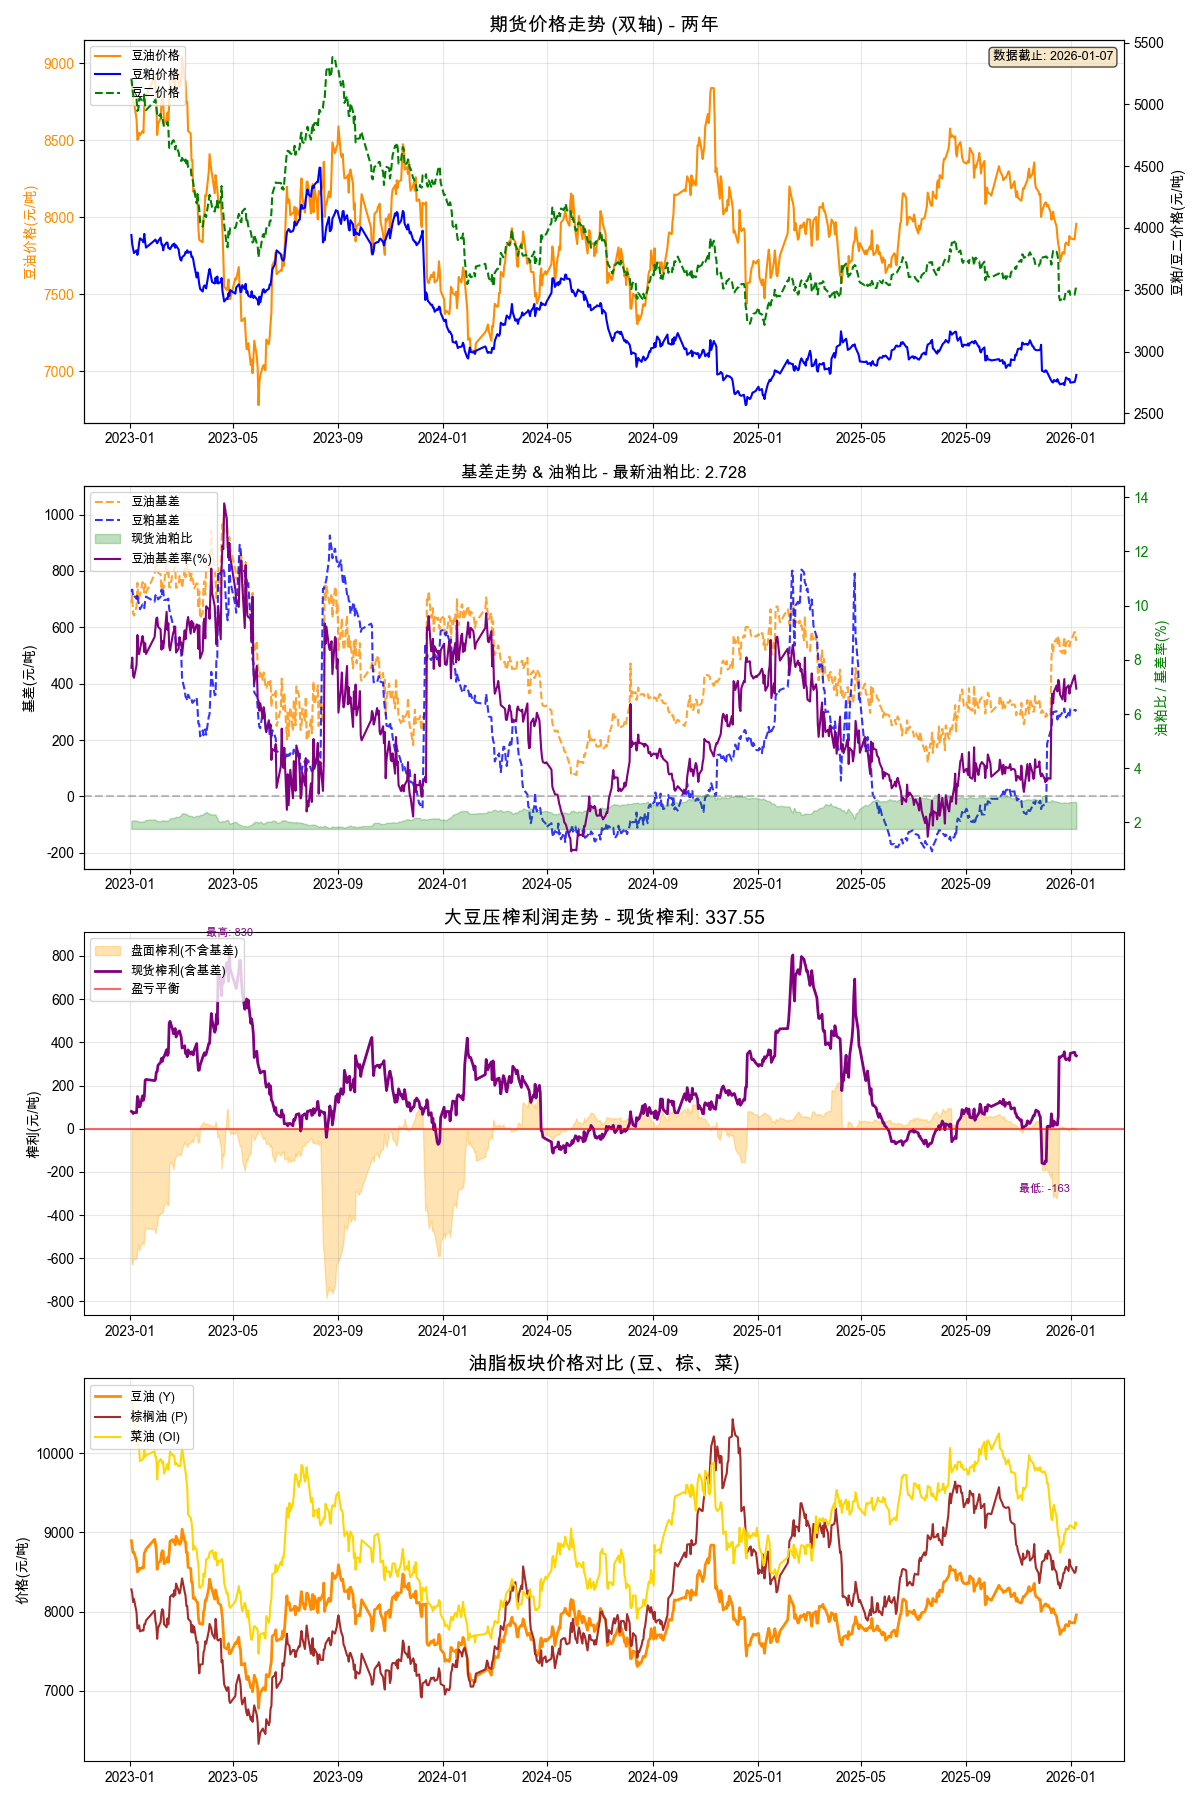
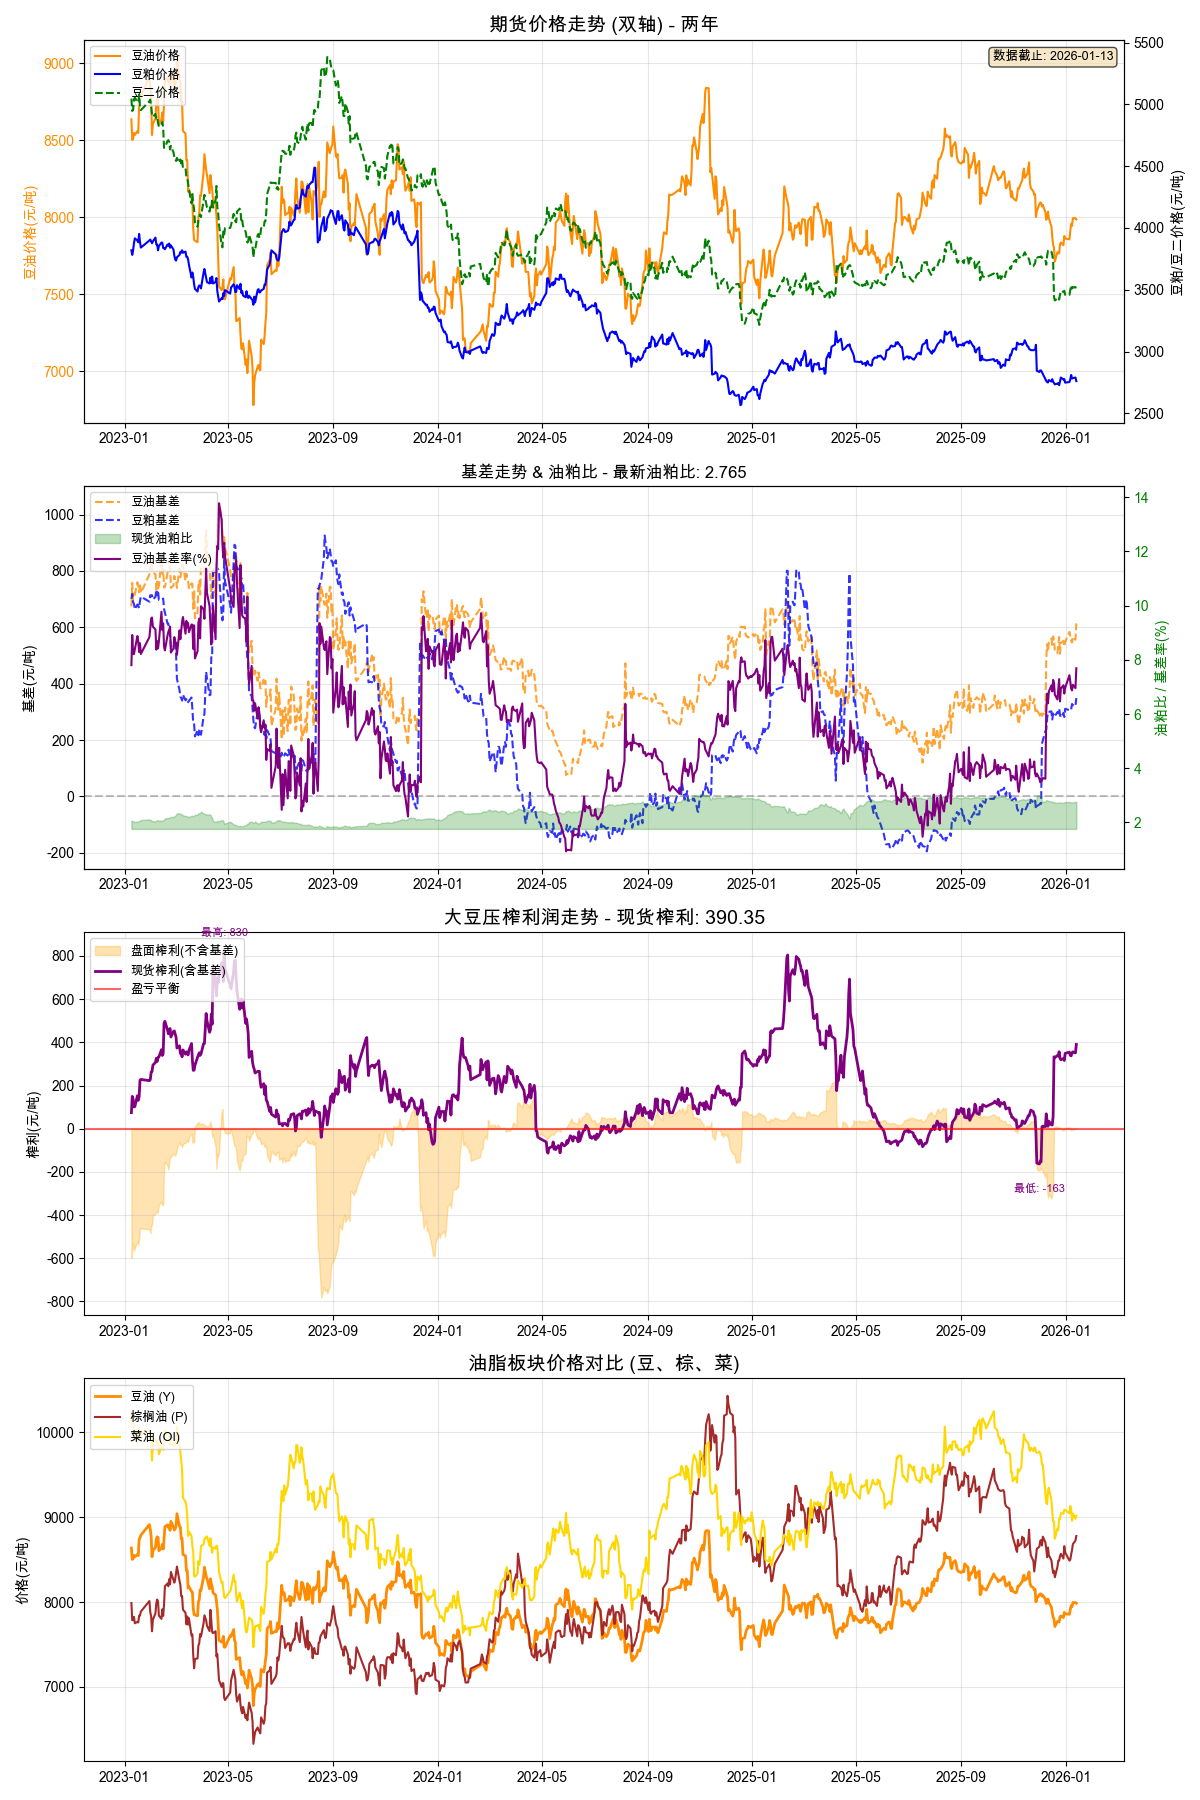
更新: 内容更新 2026-01-13 22:06:48

diff --git a/分析文章脚本/榨利计算深度分析_v3.py b/分析文章脚本/榨利计算深度分析_v3.py
@@ -275,6 +275,7 @@ class 榨利计算器V3:
         plt.savefig(os.path.join(HUGO_IMAGES_DIR, 文件名))
         plt.savefig(os.path.join(self.输出目录, 文件名))
         plt.close()
+        return 文件名
 
     # ================= AI 分析与博客生成逻辑 =================
 

diff --git a/content/posts/榨利深度分析报告.md b/content/posts/榨利深度分析报告.md
@@ -1,67 +1,24 @@
 ---
 title: "🫘大豆榨利深度分析报告"
-date: 2026-01-13T15:44:37+08:00
-lastmod: 2026-01-13T15:44:37+08:00
+date: 2026-01-13T22:05:49+08:00
+lastmod: 2026-01-13T22:05:49+08:00
 description: "自动化生成的压榨利润深度报告，引用原始版本高精绘图和 DeepSeek AI 逻辑。"
 draft: false
 categories: ["期货分析"]
 tags: ["大豆", "豆油", "豆粕", "期货", "可视化"]
-image: /images/charts/None
+image: /images/charts/margin_chart_半年.png
 ---
 
 ## 🛰 数据核心快照
 
-- **最新榨利**: `351.10` 元/吨 (压榨成本：150.0)
-- **基差详情**: 豆油 `556` | 豆粕 `320`
+- **最新榨利**: `390.35` 元/吨 (压榨成本：150.0)
+- **基差详情**: 豆油 `614` | 豆粕 `349`
 
 ---
 
 ## 🤖 AI 首席分析师解读
 
-# 大豆压榨利润深度点评：高利润下的策略与风险
-
-## 一、 利润周期定位：处于历史高位，但非极端
-
-**当前榨利：351.10 元/吨**，显著高于**半年均值79.47元/吨**，并已进入历史最值区间（-163， 693）的上半区。从统计角度看，当前利润水平已超过过去半年约70%的时间点（胜率71.1%），表明市场正处于一个**高利润驱动期**。
-
-**核心判断**：利润虽高，但距离历史峰值（693元/吨）仍有相当距离，尚未进入“极端泡沫”区间。此利润水平主要受**原料成本（大豆）相对疲软**与**产成品（豆油、豆粕）价格相对坚挺**的双重驱动，是阶段性供需错配的结果，而非长期结构性红利。
-
-## 二、 基差结构对油厂策略的影响：锁定利润的黄金窗口
-
-最新基差呈现 **“油强粕稳”** 格局：
-- **豆油基差：+556.0** —— 处于**极高**水平，反映现货市场供应紧张、需求旺盛或对未来看涨情绪强烈。
-- **豆粕基差：+320.0** —— 处于**偏强**水平，显示饲料需求有支撑，但强度弱于豆油。
-
-**对油厂策略的直接影响**：
-1.  **强烈套保动机**：高企的正基差意味着现货销售利润远优于期货盘面。油厂有极强动力在期货盘面**卖出豆油、豆粕期货**，以锁定未来生产的超高现货升水利润。这是将当前高基差“变现”的核心手段。
-2.  **延缓点价，挺价销售**：对于已采购的未点价大豆，油厂可能倾向于**延缓点价**，等待更好的成本机会。同时，在现货销售中采取**高报、限量**的挺价策略，以最大化享受高基差红利。
-3.  **压榨节奏最大化**：高利润驱动下，只要物流和产能允许，油厂会倾向于**维持甚至提升开机率**，将利润转化为实际现金流。
-
-## 三、 豆油下游采购与套保决策建议
-
-**核心矛盾**：面对**高现货价格（期货价格+高基差）** 和**高基差**，下游厂商陷入“采购即面临高成本，不采购则可能面临断供或更高价格”的两难境地。
-
-**具体决策建议**：
-- **现货采购策略**：
-    - **刚性需求**：对于未来1-2个月的刚性生产需求，建议采取 **“小批量、多批次”** 的采购模式。避免在当前现货绝对价格和基差双高的位置建立大量库存。可尝试与供应商协商，争取部分**远期基差合同**，锁定未来的采购升水，但暂不锁定绝对价格。
-    - **非刚性/战略备货**：**强烈建议推迟大规模采购**。当前现货价格已包含极高的情绪溢价，风险大于机会。
-- **期货与套保策略**：
-    - **买入套保（针对未来需求）**：**不建议直接在期货盘面大量买入豆油合约**进行虚拟库存建设。因为期货价格已反映较强预期，且基差有在未来随着供应恢复而大幅收敛（下跌）的风险，可能导致“期货盈利无法覆盖现货基差损失”的局面。
-    - **替代策略**：考虑采用 **“买入看涨期权”** 或 **“牛市价差组合”** 。此举可以在控制最大风险（权利金）的前提下，捕捉未来价格的潜在上涨，同时规避了高基差收敛带来的风险。这是当前环境下更优的风险管理工具。
-    - **对于已采购的高价现货**：如果库存成本过高，可在期货盘面进行**卖出套保**，锁定销售价格，防止未来价格下跌带来的库存贬值风险。
-
-## 四、 短期持仓与企业避险建议
-
-1.  **对于油厂（利润持有方）**：
-    - **首要行动**：**立即、分批在豆油和豆粕期货上进行卖出套保**，将当前的高额盘面利润及高基差预期予以锁定。套保比例可根据销售进度提升至80%以上。
-    - **风险管理**：警惕“利润顶”的出现。密切关注大豆到港成本变化、国家抛储政策动向以及下游对高价的接受度。一旦利润出现拐头向下迹象，应果断将剩余敞口全部套保。
-
-2.  **对于贸易商及下游企业（成本承受方）**：
-    - **降低敞口，谨慎追高**：现货端严格控制库存水平，期货端避免单边多头投机。当前市场更可能呈现“高位震荡”而非“单边上涨”，交易难度大。
-    - **利用基差交易**：积极关注**基差交易机会**。如果判断未来基差必将从高位回落，可考虑在现货端签订固定基差的远期合同，同时在期货市场进行对冲操作，赚取基差收敛的利润。
-    - **关注替代品价差**：密切关注棕榈油、菜油等对豆油的价差关系。如果价差拉大至极端水平，可考虑在配方或采购中增加替代品比例，以降低成本压力。
-
-**总结**：当前大豆压榨利润处于诱人的高位，但其根基是脆弱的高基差。对于不同产业链位置的企业，这是**风险与机遇截然分化**的时刻。油厂应果断“落袋为安”，下游企业则需“忍耐避险”。市场已进入 **“利润兑现期”而非“利润扩张期”** ，策略的核心应从进攻转向防守。
+AI 分析连接超时，请关注盘面基差变化。
 
 ---
 
@@ -69,20 +26,20 @@ image: /images/charts/None
 (各周期图表均包含：价格、基差、榨利、板块对比)
 
 ### 1. 近半年 (180天)
-![半年走势](/images/charts/None)
+![半年走势](/images/charts/margin_chart_半年.png)
 
 ### 2. 近一年 (365天)
-![一年走势](/images/charts/None)
+![一年走势](/images/charts/margin_chart_一年.png)
 
 ### 3. 近两年 (730天)
-![两年走势](/images/charts/None)
+![两年走势](/images/charts/margin_chart_两年.png)
 
 ### 4. 全历史周期
-![全历史走势](/images/charts/None)
+![全历史走势](/images/charts/margin_chart_全历史.png)
 
 ---
 
 ## 🛠 计算说明
 > 榨利 = (豆油现货价格 × 18.5% + 豆粕现货价格 × 78.5%) - 豆二价格 - 150.0
 > 数据源：交易法门(基差) / Akshare(期货)
-> 更新时间：2026-01-13 15:44:37
+> 更新时间：2026-01-13 22:05:49

diff --git a/分析文章脚本/blog/榨利深度分析报告.md b/分析文章脚本/blog/榨利深度分析报告.md
@@ -1,18 +1,18 @@
 ---
 title: "🫘大豆榨利深度分析报告"
-date: 2026-01-07T23:43:28+08:00
-lastmod: 2026-01-07T23:43:28+08:00
+date: 2026-01-13T22:05:49+08:00
+lastmod: 2026-01-13T22:05:49+08:00
 description: "自动化生成的压榨利润深度报告，引用原始版本高精绘图和 DeepSeek AI 逻辑。"
 draft: false
-categories: ["榨利深度分析"]
+categories: ["期货分析"]
 tags: ["大豆", "豆油", "豆粕", "期货", "可视化"]
-image: /images/charts/None
+image: /images/charts/margin_chart_半年.png
 ---
 
 ## 🛰 数据核心快照
 
-- **最新榨利**: `337.55` 元/吨 (压榨成本：150.0)
-- **基差详情**: 豆油 `552` | 豆粕 `309`
+- **最新榨利**: `390.35` 元/吨 (压榨成本：150.0)
+- **基差详情**: 豆油 `614` | 豆粕 `349`
 
 ---
 
@@ -26,20 +26,20 @@ AI 分析连接超时，请关注盘面基差变化。
 (各周期图表均包含：价格、基差、榨利、板块对比)
 
 ### 1. 近半年 (180天)
-![半年走势](/images/charts/None)
+![半年走势](/images/charts/margin_chart_半年.png)
 
 ### 2. 近一年 (365天)
-![一年走势](/images/charts/None)
+![一年走势](/images/charts/margin_chart_一年.png)
 
 ### 3. 近两年 (730天)
-![两年走势](/images/charts/None)
+![两年走势](/images/charts/margin_chart_两年.png)
 
 ### 4. 全历史周期
-![全历史走势](/images/charts/None)
+![全历史走势](/images/charts/margin_chart_全历史.png)
 
 ---
 
 ## 🛠 计算说明
 > 榨利 = (豆油现货价格 × 18.5% + 豆粕现货价格 × 78.5%) - 豆二价格 - 150.0
 > 数据源：交易法门(基差) / Akshare(期货)
-> 更新时间：2026-01-07 23:43:28
+> 更新时间：2026-01-13 22:05:49
